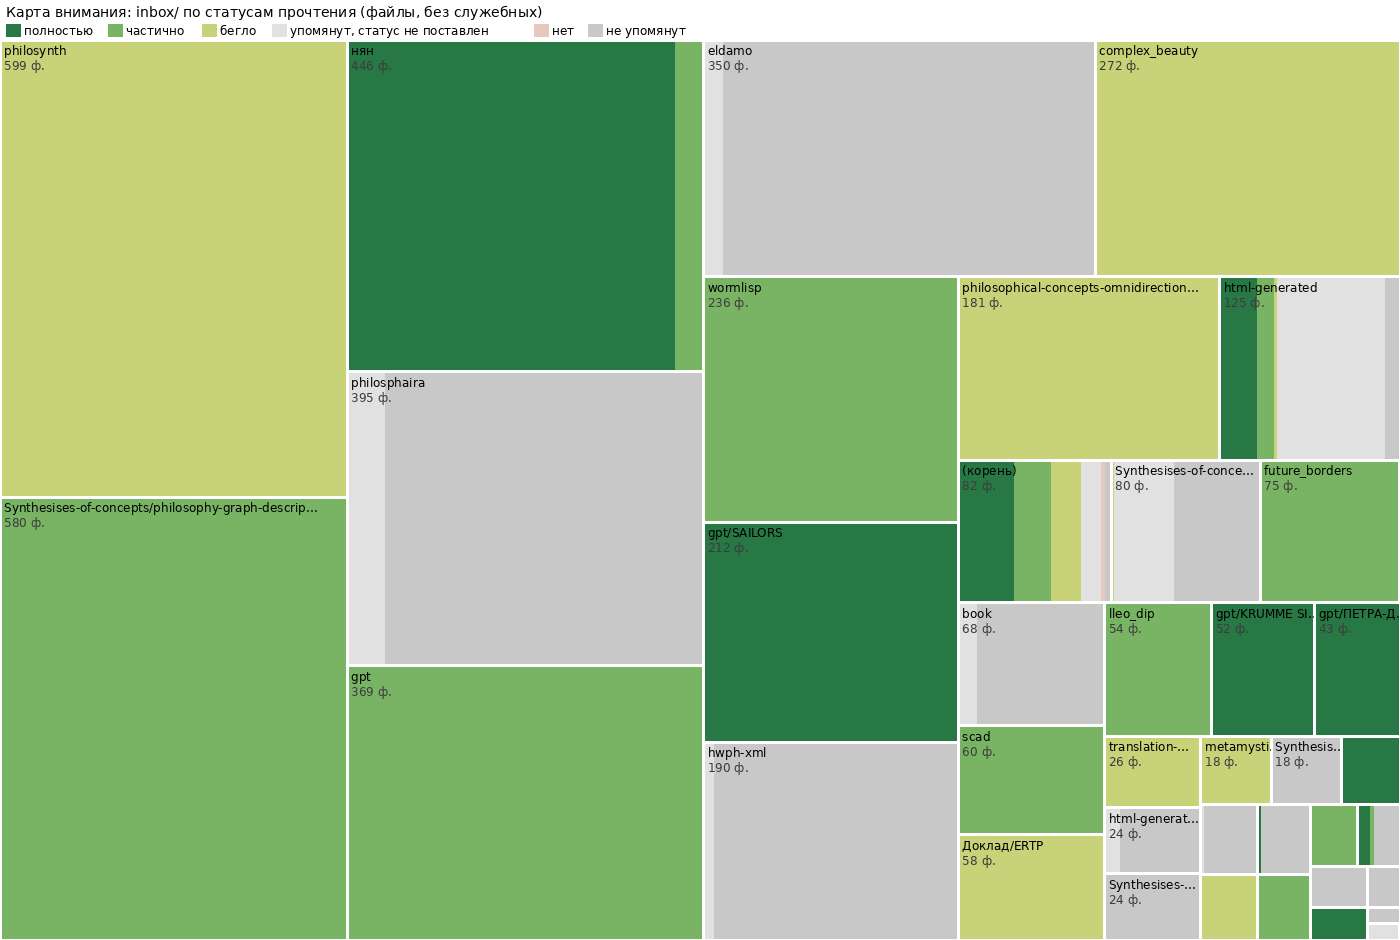
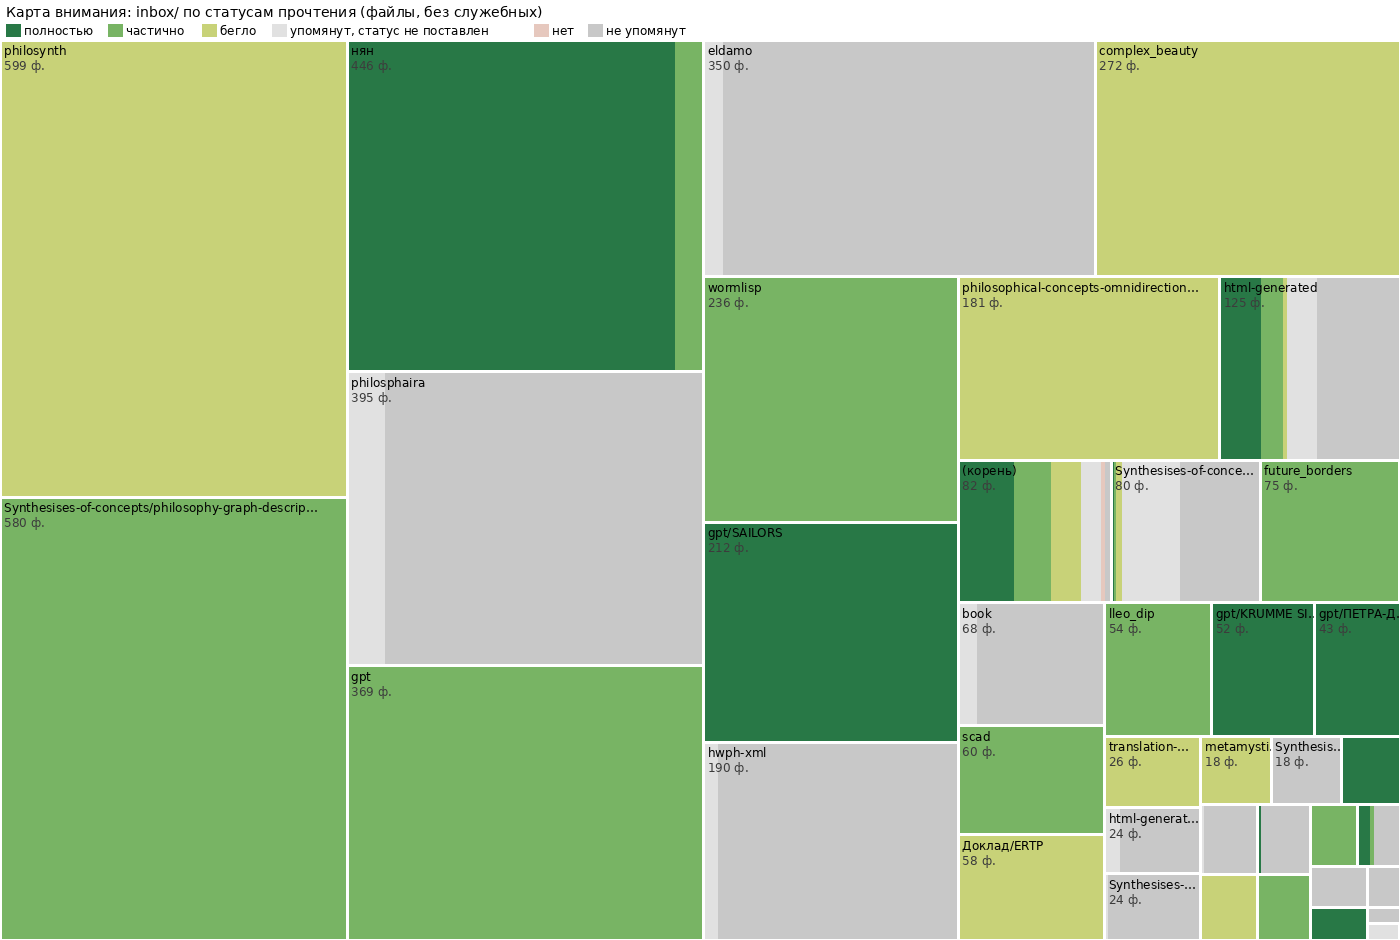
Карта: каталог не считается упоминанием; статусы html

Changed region(s): [[0.8907, 0.2777, 1.0, 0.4936], [0.8293, 0.4936, 0.86, 0.6479], [0.7679, 0.4936, 0.7986, 0.617]]

diff --git a/proekty/karta/bez_statusa.py b/proekty/karta/bez_statusa.py
@@ -1,0 +1,25 @@
+"""bez_statusa.py [префикс] — файлы со статусом «упомянут, статус не поставлен» и строки моих текстов, где они названы
+вместе со словами о чтении («прочит», «прочёл», «читал», «смотрел», «открыл»). Помогает проставить ручной статус в status.tsv."""
+import os, re, sys
+HERE = os.path.dirname(os.path.abspath(__file__))
+ROOT = os.path.normpath(os.path.join(HERE, "..", ".."))
+pref = sys.argv[1] if len(sys.argv) > 1 else ""
+texts = []
+for d in ("diary", "notes", "proekty"):
+    for dp, dn, fn in os.walk(os.path.join(ROOT, d)):
+        for f in fn:
+            if f.endswith(".md") and "karta" not in dp:
+                p = os.path.join(dp, f)
+                for line in open(p, encoding="utf-8", errors="replace"):
+                    texts.append((os.path.relpath(p, ROOT), line))
+RX = re.compile(r"прочит|прочёл|прочла|читал|смотрел|открыл|разобран", re.I)
+for line in open(os.path.join(HERE, "upominaniya.tsv"), encoding="utf-8"):
+    f = line.split("\t")
+    if f[0].startswith("#") or not f[0].startswith(pref) or f[2] != "упомянут, статус не поставлен":
+        continue
+    stem = os.path.splitext(os.path.basename(f[0]))[0]
+    hits = [(p, l.strip()) for p, l in texts if stem in l and RX.search(l)]
+    print("%s  [%d]" % (f[0], len(hits)))
+    for p, l in hits[:2]:
+        i = l.find(stem)
+        print("     %s: …%s…" % (p, l[max(0, i - 60):i + 120]))

diff --git a/proekty/karta/karta.py b/proekty/karta/karta.py
@@ -27,7 +27,7 @@ for d in ("diary", "notes", "proekty"):
                 continue
             p = os.path.join(dp, f)
             rel = os.path.relpath(p, ROOT)
-            if rel.startswith("proekty/karta/") or os.path.basename(rel).startswith(("smesh", "test8-mesta", "test8-vyborka")):
+            if rel.startswith("proekty/karta/") or rel == "notes/karta-html.md" or os.path.basename(rel).startswith(("smesh", "test8-mesta", "test8-vyborka")):
                 continue  # механические прогоны по всему inbox — не упоминание
             try:
                 mine[rel] = open(p, encoding="utf-8", errors="replace").read()

diff --git a/proekty/karta/karta.md b/proekty/karta/karta.md
@@ -1,6 +1,6 @@
 # Карта архива inbox/
 
-Порождается `karta.py` (не править руками; править `status.tsv`). Файлов: 6195. Статусы: частично — 1470, служебное — 1441, бегло — 1189, не упомянут — 1089, полностью — 801, упомянут, статус не поставлен — 203, нет — 2.
+Порождается `karta.py` (не править руками; править `status.tsv`). Файлов: 6195. Статусы: частично — 1473, служебное — 1441, бегло — 1190, не упомянут — 1136, полностью — 805, упомянут, статус не поставлен — 148, нет — 2.
 
 Статус — моё утверждение по дневнику и заметкам; «упом.» — сколько файлов единицы названы по имени хоть в одном моём файле (автоматически, не значит «прочитано»). Подробно по файлам — `upominaniya.tsv`.
 
@@ -96,7 +96,7 @@
 | `Synthesises-of-concepts/synthesis-project` | 24 | 876 КБ | не упомянут 23, упомянут, статус не поставлен 1 | 1 |  | `diary/2026-10-18-1901.md` |
 | `Synthesises-of-concepts/synthesis-project-m4opus` | 18 | 475 КБ | не упомянут | 0 |  |  |
 | `Synthesises-of-concepts/synthesises` | 9 | 32 КБ | не упомянут | 0 |  |  |
-| `Synthesises-of-concepts/various` | 80 | 7 МБ | не упомянут 43, упомянут, статус не поставлен 32, бегло 3, частично 1, полностью 1 | 34 | дневник 2026-10-18-1901 (§1); дневник 2026-10-18-1901 (без проверки); дневник 2026-10-18-1901 (введение, таксономия); дневник 2026-10-18-1901 (начало); дневник 2026-10-18-1901 (против комментария автора в cycle-comm-styled) | `notes/gpt-koren.md`, `proekty/rody-oshibok/test11-perepis.tsv` |
+| `Synthesises-of-concepts/various` | 80 | 7 МБ | не упомянут 43, упомянут, статус не поставлен 31, бегло 3, полностью 2, частично 1 | 34 | дневник 2026-10-18-1901 (§1); дневник 2026-10-18-1901 (без проверки); дневник 2026-10-18-1901 (введение, таксономия); дневник 2026-10-18-1901 (начало); дневник 2026-10-18-1901 (против комментария автора в cycle-comm-styled); тот же текст, что html (дневник 2026-10-18-1640) | `notes/gpt-koren.md`, `proekty/rody-oshibok/test11-perepis.tsv` |
 | `Synthesises-of-concepts/wittgenstein-hesychasm` | 14 | 715 КБ | не упомянут 13, полностью 1 | 1 | дневник 2026-10-18-1901 (без проверки) | `diary/2026-10-18-1901.md` |
 | `book/` | 70 | 23 МБ | не упомянут 59, упомянут, статус не поставлен 9, служебное 2 | 5 |  | `notes/ranatar.md`, `diary/2026-10-18-1457.md` |
 | `complex_beauty/` | 272 | 149 МБ | бегло | 0 | notes/karta-inbox.md (листом) |  |
@@ -107,7 +107,7 @@
 | `gpt/SAILORS` | 212 | 616 МБ | полностью | 2 | notes/sailors.md (листами; крупно — две) | `notes/imyaslavie.md`, `notes/karta-inbox.md` |
 | `gpt/ИМЯСЛАВНАЯ РОССИЯ` | 15 | 44 МБ | полностью | 0 | notes/imyaslavie.md |  |
 | `gpt/ПЕТРА-ДУБРАВСКАЯ ШКОЛА` | 43 | 118 МБ | полностью | 0 | notes/petra-dubrava.md |  |
-| `html-generated/` | 125 | 25 МБ | упомянут, статус не поставлен 75, полностью 26, частично 12, не упомянут 10, бегло 2 | 115 | notes/aidan-aelfwine.md; notes/aidan-sosud.md; notes/atomnye-modeli.md; notes/complex-trinity.md; notes/differance.md; notes/dve-komnaty.md; notes/geolimpiada.md; notes/karta-html.md (каталог есть; что не перечислено выше — смотреть столбец упоминаний); notes/konfucij-dvazhdy.md (тезисы не читаны); notes/kontinuum.md; notes/kvenya-holmy.md; notes/monadologiya.md; notes/muzyka-posledovatelnost.md; notes/odinnadcat-m.md; notes/otvet-gegel.md; notes/parmenid-levinas.md; notes/pi-gallery.md; notes/providence-ssylki.md; notes/sad-soglasovanij.md; notes/vinilograf.md; notes/vitgenshtejn-sintez.md; notes/zhizn-figury.md (фигуры); proekty/aidan/; proekty/blanki/; proekty/hokku/README.md (без проверки); proekty/iass/; дневник 2026-10-18-1807; раздел CLAUDE.md: «только диалог» | `notes/karta-html.md`, `notes/slova-mutanty.md` |
+| `html-generated/` | 125 | 25 МБ | не упомянут 57, полностью 29, упомянут, статус не поставлен 21, частично 15, бегло 3 | 61 | notes/aidan-aelfwine.md; notes/aidan-sosud.md; notes/atomnye-modeli.md; notes/complex-trinity.md; notes/differance.md; notes/dve-komnaty.md; notes/geolimpiada.md; notes/karta-html.md (каталог есть; что не перечислено выше — смотреть столбец упоминаний); notes/konfucij-dvazhdy.md (тезисы не читаны); notes/kontinuum.md; notes/kvenya-holmy.md; notes/monadologiya.md; notes/muzyka-posledovatelnost.md; notes/odinnadcat-m.md; notes/otvet-gegel.md; notes/parmenid-levinas.md; notes/petra-dubrava.md; notes/pi-gallery.md; notes/providence-ssylki.md; notes/sad-soglasovanij.md; notes/vinilograf.md; notes/vitgenshtejn-sintez.md; notes/zhizn-figury.md (фигуры); proekty/aidan/; proekty/blanki/; proekty/hokku/README.md (без проверки); proekty/iass/; proekty/instrumenty/brauzer/snimki/kaleidoscope.png; дневник 2026-10-18-0842 (без проверки); дневник 2026-10-18-1640 (16:57, без проверки); дневник 2026-10-18-1640 (без проверки); дневник 2026-10-18-1807; раздел CLAUDE.md: «только диалог» | `notes/slova-mutanty.md`, `notes/karta-inbox.md` |
 | `html-generated/maps` | 72 | 18 МБ | служебное 59, частично 13 | 4 | proekty/rody-oshibok/ (тест 3: формулы проекций) | `proekty/rody-oshibok/README.md`, `proekty/proverki/proekcii.py` |
 | `html-generated/waves` | 11 | 2 МБ | частично | 1 | дневник 2026-10-18-1901 (браузером: комната Токарского) | `diary/2026-10-18-1901.md` |
 | `html-generated/webmap` | 24 | 7 МБ | не упомянут 20, упомянут, статус не поставлен 4 | 4 | notes/karta-html.md (каталог есть; что не перечислено выше — смотреть столбец упоминаний) | `diary/2026-10-18-0737.md`, `diary/2026-10-18-1901.md` |
@@ -117,7 +117,7 @@
 | `metamystic-dictionary-extended/` | 18 | 252 КБ | бегло | 0 | дневник 2026-10-18-1901 (строение; proekty/karta/metamistika.py) |  |
 | `philosophical-concepts-omnidirectional/` | 181 | 3 МБ | бегло | 3 | notes/rodoslovnaya-sinteza.md (README, состав) | `diary/2026-10-18-1901.md`, `notes/ranatar.md` |
 | `philosphaira/` | 403 | 19 МБ | не упомянут 353, упомянут, статус не поставлен 40, служебное 8, частично 2 | 23 | proekty/instrumenty/brauzer/snimki/philosphaira.jpg (живьём); дневник 2026-10-18-1901 (§1–2, §13-бис) | `notes/gpt-koren.md`, `proekty/sverka-wikidata/sverka.py` |
-| `philosynth/` | 599 | 21 МБ | бегло | 19 | notes/karta-inbox.md (README, NEXT-CONTEXT) | `notes/karta-inbox.md`, `notes/rodoslovnaya-sinteza.md` |
+| `philosynth/` | 599 | 21 МБ | бегло | 17 | notes/karta-inbox.md (README, NEXT-CONTEXT) | `notes/karta-inbox.md`, `notes/rodoslovnaya-sinteza.md` |
 | `scad/` | 60 | 127 КБ | частично | 3 | proekty/kruzhochek/README.md | `proekty/kruzhochek/README.md`, `diary/2026-10-18-0510.md` |
 | `translation-chaos/` | 26 | 185 КБ | бегло | 3 | notes/karta-inbox.md (README) | `notes/ranatar.md`, `diary/2026-10-18-0510.md` |
 | `wormlisp/` | 920 | 15 МБ | служебное 684, частично 236 | 27 | proekty/cherv/README.md (запущен; код — выборочно) | `proekty/cherv/README.md`, `diary/2026-10-18-0408.md` |
